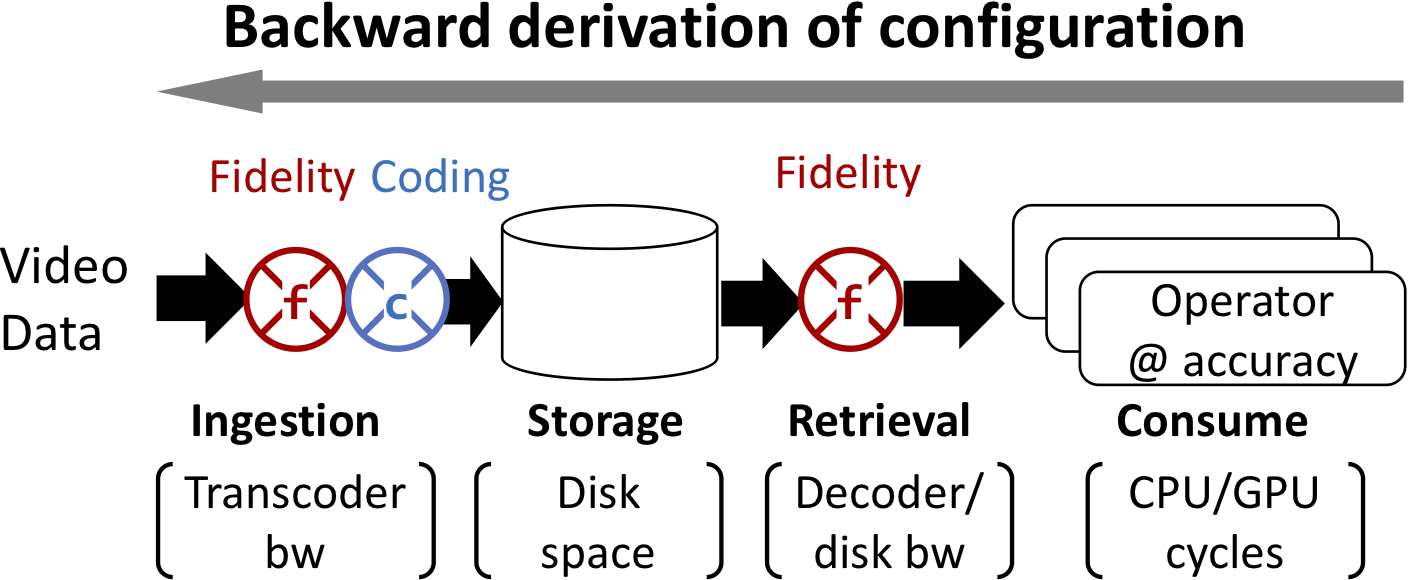
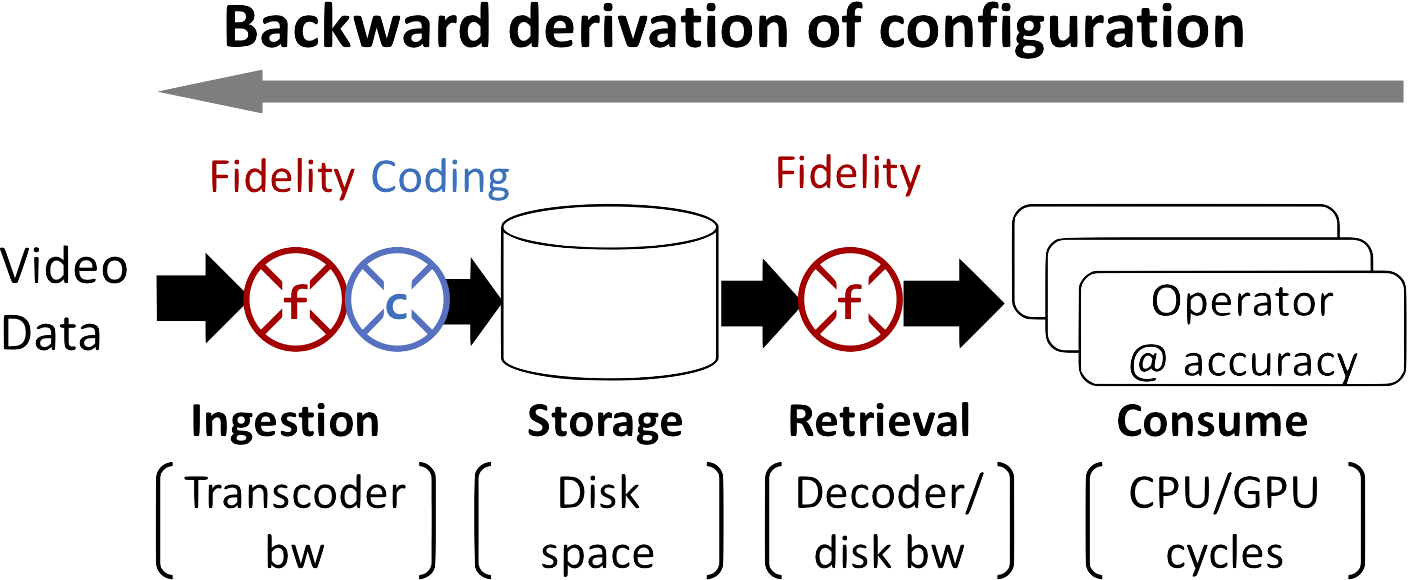
up

Changed region(s): [[0.7812, 0.5897, 0.9688, 0.6828], [0.7812, 0.4655, 0.9375, 0.5276], [0.8125, 0.5897, 0.8438, 0.6207]]

diff --git a/p/vstore/index.md b/p/vstore/index.md
@@ -1,21 +1,21 @@
 ## <center>VStore: A Data Store for Analytics on Large Videos</center>
 
 ### Overview
-We present VStore, a data store for supporting fast, resource efficient analytics over large archival videos. 
-<p align="center"> 
-<img src="./concept-small.png" title="An Overview of VStore">
+We present VStore, a data store for supporting fast, resource efficient analytics over large archival videos.
+<p align="center">
+<img src="./concept-transparent.png" title="An Overview of VStore">
 </p>
 
 * VStore manages video ingestion, storage, retrieval, and consumption, and controls video formats along the video data path.
-* VStore explores an idea called backward derivation of configuration: 
-in the opposite direction along the video data path, VStore passes the video quantity and quality expected by analytics backward to retrieval, to storage, and to ingestion. 
+* VStore explores an idea called backward derivation of configuration:
+in the opposite direction along the video data path, VStore passes the video quantity and quality expected by analytics backward to retrieval, to storage, and to ingestion.
 * In this process, VStore automatically derives an optimal set of video formats, optimizing for different resources in a progressive manner.
-* In response to queries, VStore selects video formats catering to the executed operators and the target accuracy. 
-It streams video data from disks through decoder to operators. 
+* In response to queries, VStore selects video formats catering to the executed operators and the target accuracy.
+It streams video data from disks through decoder to operators.
 It runs queries as fast as 362× of video realtime.
 
 ### Related Publication
-**[EuroSys '19]** 
+**[EuroSys '19]**
 Tiantu Xu, Luis Materon Botelho, and Felix Xiaozhu Lin. 2019. VStore: A Data Store for Analytics on Large Videos. In Proceedings of the Fourteenth EuroSys Conference 2019 (EuroSys '19). ACM, New York, NY, USA, Article 16, 17 pages. DOI: https://doi.org/10.1145/3302424.3303971
 
 ### Source Code
